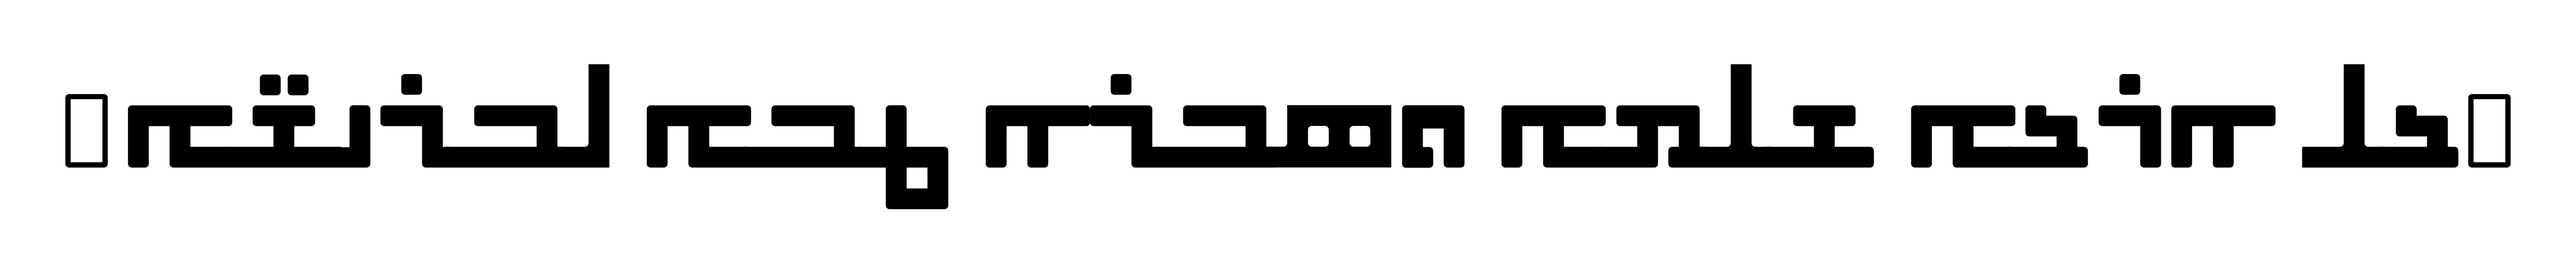
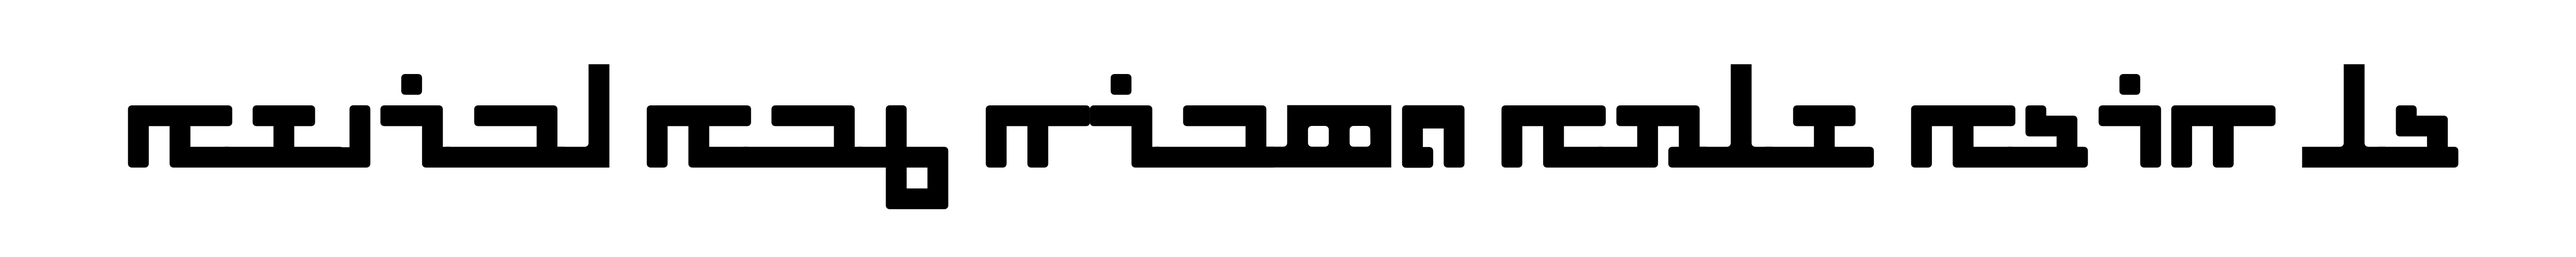
removed boxes from text

diff --git a/scripts/render_text.py b/scripts/render_text.py
@@ -2,6 +2,11 @@ import sys
 import arabic_reshaper
 from bidi.algorithm import get_display
 from PIL import Image, ImageDraw, ImageFont
+import unicodedata
+
+def clean_text(text):
+    # Normalize the text to remove unwanted characters
+    return ''.join(c for c in text if unicodedata.category(c).startswith('L') or c.isspace())
 
 def render_text_to_image(font_path, text, output_path):
     width, height = 5000, 500
@@ -10,7 +15,7 @@ def render_text_to_image(font_path, text, output_path):
     image = Image.new('RGB', (width, height), color='white')
 
     # Prepare the text for rendering
-    reshaped_text = arabic_reshaper.reshape(text.strip())
+    reshaped_text = arabic_reshaper.reshape(clean_text(text))
     
     # Load the font
     font_size = 400
